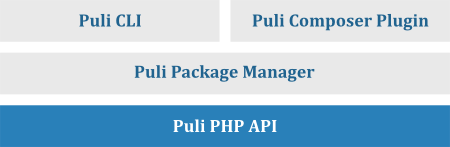
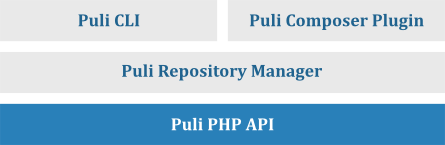
Renamed package manager to repository manager

diff --git a/docs/components.rst b/docs/components.rst
@@ -26,10 +26,10 @@ map *Puli paths* to physical paths on the file system:
 :doc:`repositories` explains in detail how to create resource repositories
 by hand.
 
-The Package Manager
--------------------
+The Repository Manager
+----------------------
 
-The `Puli Package Manager`_ manages a resource repository using puli.json
+The `Puli Repository Manager`_ manages a resource repository using puli.json
 files in the root directory of your project and any installed packages:
 
 .. code-block:: json
@@ -40,13 +40,13 @@ files in the root directory of your project and any installed packages:
         }
     }
 
-In :doc:`repository-configuration` you will learn all about mapping resources
+In :doc:`mapping-resources` you will learn all about mapping resources
 in puli.json files.
 
 The Command Line Interface
 --------------------------
 
-The `Puli CLI`_ is a command line interface to the package manager. The most
+The `Puli CLI`_ is a command line interface to the repository manager. The most
 important command is ``puli dump``, which generates the managed resource
 repository as a PHP file:
 
@@ -65,11 +65,11 @@ The generated file can be loaded in your PHP code:
 The Composer Plugin
 -------------------
 
-The `Composer Plugin`_ for Puli integrates Composer into the package manager.
+The `Composer Plugin`_ for Puli integrates Composer into the repository manager.
 With this plugin, the puli.json files of all installed Composer packages are
-loaded into the resource repository. For example, if the Composer package
-"acme/blog" maps resources to the Puli path ``/acme/blog``, you can access
-these resources like so:
+loaded automatically. For example, if the Composer package "acme/blog" maps
+resources to the Puli path ``/acme/blog``, you can access these resources like
+so:
 
     .. code-block:: php
 
@@ -83,6 +83,6 @@ project.
 
 .. _Puli: https://github.com/puli/puli
 .. _Composer: https://getcomposer.org
-.. _Puli Package Manager: https://github.com/puli/puli-package-manager
+.. _Puli Repository Manager: https://github.com/puli/puli-repository-manager
 .. _Puli CLI: https://github.com/puli/puli-cli
 .. _Composer Plugin: https://github.com/puli/puli-composer-plugin

diff --git a/docs/index.rst b/docs/index.rst
@@ -7,12 +7,12 @@ Welcome to Puli's documentation!
    at-a-glance
    components
    getting-started
+   mapping-resources
    working-with-resources
-   repository-configuration
    tags
    uris
    repositories
-   packages
+   package-guidelines
    extensions
 
 Puli_ manages the files, directories and other resources of your project in a
@@ -58,12 +58,15 @@ The documentation contains the following sections:
 * :doc:`at-a-glance`
 * :doc:`components`
 * :doc:`getting-started`
+* :doc:`mapping-resources`
 * :doc:`working-with-resources`
-* :doc:`repository-configuration`
 * :doc:`tags`
 * :doc:`uris`
 * :doc:`repositories`
-* :doc:`packages`
+
+The appendix contains further useful information:
+
+* :doc:`package-guidelines`
 * :doc:`extensions`
 
 Contribute

diff --git a/docs/getting-started.rst b/docs/getting-started.rst
@@ -189,13 +189,12 @@ now silently be ignored.
 Further Reading
 ---------------
 
-* :doc:`../working-with-resources` explains how to use the resources returned
+* :doc:`working-with-resources` explains how to use the resources returned
   by the generated repository.
-* :doc:`../repository-configuration` explains more details about the
+* :doc:`mapping-resources` explains more details about the
   repository configuration.
 
 .. _Puli: https://github.com/puli/puli
-.. _Puli Package Manager: https://github.com/puli/puli-package-manager
 .. _Puli CLI: https://github.com/puli/puli-cli
 .. _Composer Plugin: https://github.com/puli/puli-composer-plugin
 .. _Composer: https://getcomposer.org

diff --git a/docs/mapping-resources.rst b/docs/mapping-resources.rst
@@ -1,9 +1,8 @@
-Repository Configuration
-========================
+Mapping Resources
+=================
 
-This guide explains how to configure your Puli_ repository with the `Puli plugin
-for Composer`_. The plugin should be installed already. If it is not, follow
-the instructions in :doc:`getting-started`.
+This guide explains how to map resources with Puli_. Puli should be installed
+already. If it is not, follow the instructions in :doc:`getting-started`.
 
 If you don't know what Puli is or why you should use it, read
 :doc:`at-a-glance` first.

diff --git a/docs/package-guidelines.rst b/docs/package-guidelines.rst
@@ -1,5 +1,5 @@
-Package Guidelines
-==================
+Appendix A: Package Guidelines
+==============================
 
 This guide explains how to configure reusable packages to make their resources
 usable with Puli_.
@@ -53,7 +53,7 @@ directory of your package:
         }
     }
 
-Read :doc:`repository-configuration` to learn more about mapping resources in
+Read :doc:`mapping-resources` to learn more about mapping resources in
 puli.json.
 
 Using the Repository

diff --git a/docs/working-with-resources.rst b/docs/working-with-resources.rst
@@ -173,7 +173,7 @@ Resource collections are traversable, countable and support
 Further Reading
 ---------------
 
-* :doc:`repository-configuration` teaches you more about the configuration of
+* :doc:`mapping-resources` teaches you more about the configuration of
   your repository.
 * :doc:`repositories` explains how to manage resource repositories manually.
 

diff --git a/docs/repositories.rst b/docs/repositories.rst
@@ -1,5 +1,5 @@
-Resource Repositories
-=====================
+Repositories
+============
 
 This guide explains how to manage a Puli_ repository manually. Puli should be
 installed already. If it is not, follow the instructions in :doc:`getting-started`.

diff --git a/docs/extensions.rst b/docs/extensions.rst
@@ -1,5 +1,5 @@
-Puli Extensions
-===============
+Appendix B: Puli Extensions
+===========================
 
 .. toctree::
    :hidden:
